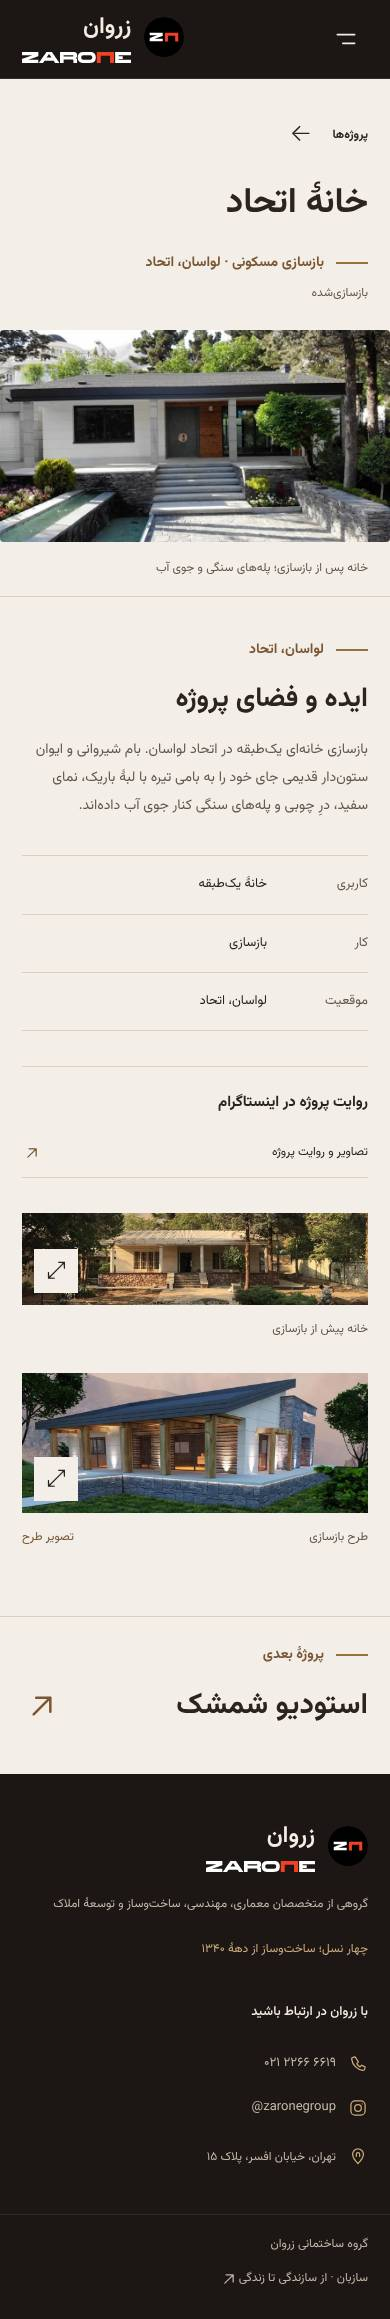
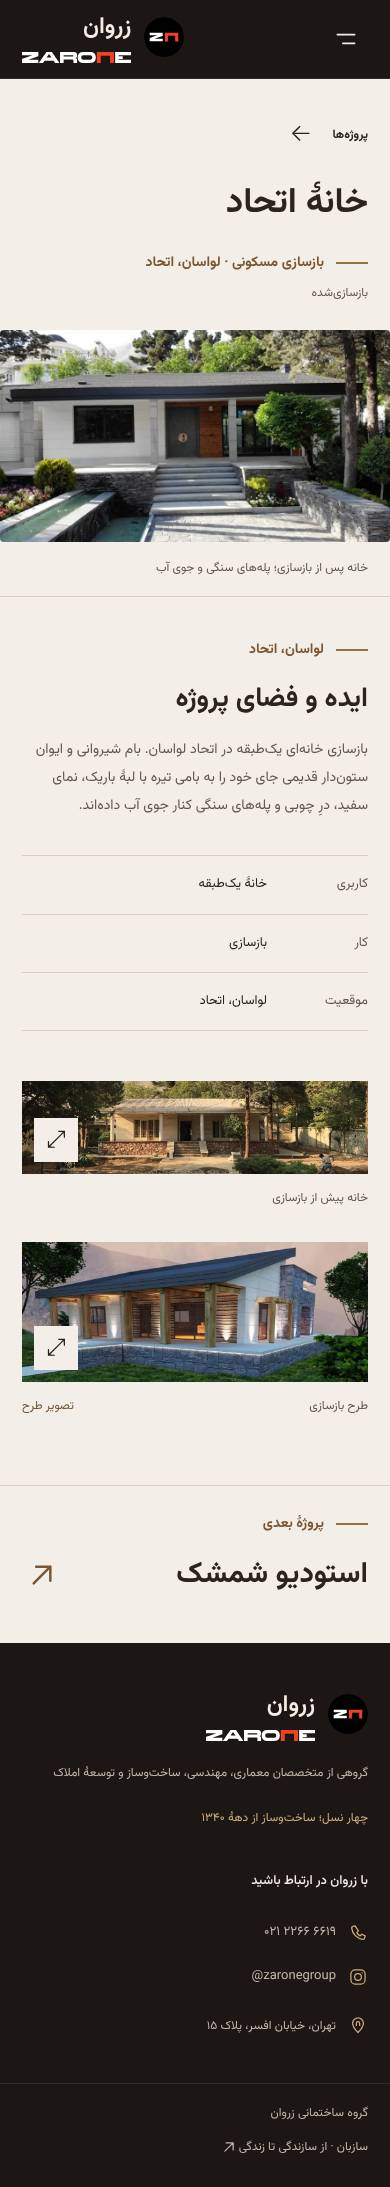
ZARONE-PROJECTS2: Estalak built with real photos, Zafaranieh aerial, one Lavasan link
Owner answers on PR #13: استلک is a finished multi-unit residential building (five photos, render last);
Zafaranieh gains the aerial view; the Lavasan Instagram link appears once, on the projects page only.

Task-ID: ZARONE-PROJECTS2
Agent-Owner: Claude

Claude-Session: https://claude.ai/code/session_01NirNs5roL2CUghsSjbHpZe

diff --git a/src/styles.css b/src/styles.css
@@ -132,7 +132,7 @@ h2{font-size:clamp(28px,3vw,40px);line-height:1.65}
 .highlight-links{display:grid;grid-template-columns:1fr 1fr;gap:35px}
 .highlight-links>a{display:flex;justify-content:space-between;align-items:center;gap:25px;border-block-start:1px solid #96703f66;padding-block:25px;min-height:130px}
 .highlight-links .eyebrow{display:block;font-size:11px;margin-bottom:8px}
-.highlight-links bdi{display:block;font-weight:550;font-size:20px}
+.highlight-links bdi,.highlight-title{display:block;font-weight:550;font-size:20px}
 .highlight-links>a>span:last-child{font-size:30px;color:var(--bronze)}
 .highlight-action{display:block;font-size:11px;color:var(--muted);margin-top:12px}
 .project-cover figcaption{display:flex;justify-content:space-between;flex-wrap:wrap;gap:12px;color:var(--muted);font-size:12px;padding-block:15px;border-bottom:1px solid var(--line)}

diff --git a/README.md b/README.md
@@ -15,10 +15,10 @@ The hosting account pulls this public repo every 10 minutes (`deploy/publish.sh`
 ## Pages and content
 
 - `/` retains the holding page until the owner's visual approval.
-- `/site/` shows all seven documented projects beneath the Symphony hero, plus direct links to the two Lavasan Instagram highlights. Each project has captioned galleries and verified source/location links where available; see [Instagram audit](docs/INSTAGRAM_AUDIT.md).
+- `/site/` shows all twelve documented projects beneath the Symphony hero; the projects page carries one link to the Lavasan Instagram highlight (Estalak and Etehad). Each project has captioned galleries and verified source/location links where available; see [Instagram audit](docs/INSTAGRAM_AUDIT.md).
 - `/site-b/`, `/site-c/`, `/b/` and `/c/` remain available for the previous palette comparison links. Preview variants are not indexable.
 - After visual approval, set `sitePublic` in `content/site.json` to `true`, rebuild and publish. The full site then occupies `/`; its production URLs enter the sitemap.
-- Edit facts in `content/site.json` and `content/projects.json`; the latter declares covers, captions and photo/render/construction types. `content/instagram-highlights.json` holds the separate Lavasan archive links. Photography remains in `images/projects/`; the Instagram profile's original logo is stored locally at `images/zarone-original.jpg`.
+- Edit facts in `content/site.json` and `content/projects.json`; the latter declares covers, captions and photo/render/construction types. `content/instagram-highlights.json` holds the single Lavasan archive link. Photography remains in `images/projects/`; the Instagram profile's original logo is stored locally at `images/zarone-original.jpg`.
 - Typography is Vazirmatn throughout, served locally; OFL licences are in `fonts/`. Palette, typography and logo are centralized in `content/brand.json`.
 - About Us follows Sazban’s current family heritage and connects the separate work of Zarone, Sazban and Kimia Ceram Zarin; see [brand/content provenance](docs/BRAND_ALIGNMENT.md).
 
